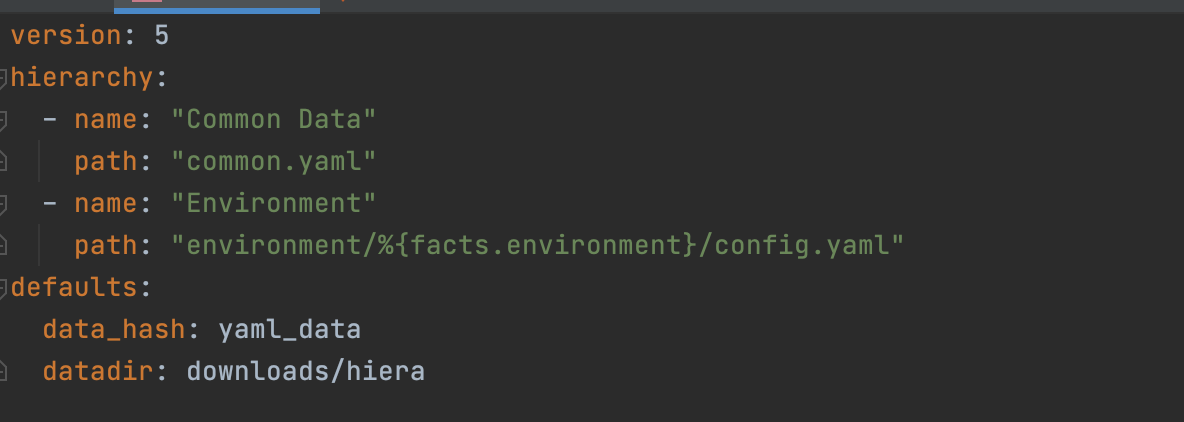
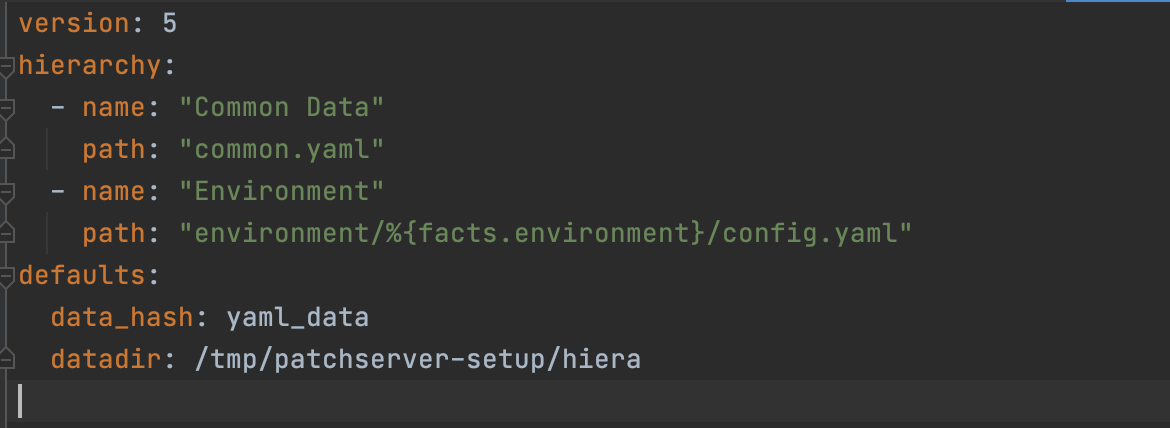
README.md and Startup Time

diff --git a/patchserver-setup.rb b/patchserver-setup.rb
@@ -5,11 +5,13 @@ require 'yaml'
 require 'fileutils'
 require 'ostruct'
 require 'apgsecrets'
-require 'json'
+require 'tty-spinner'
+require 'tempfile'
 
 def parse_show_plans_output(output,opts)
   plans_available = []
   if opts[:jsonOutput]
+    require 'json'
     show_plans = JSON.parse(output)
     show_plans['plans'].each do |plan|
       if plan.first.start_with?("piper")
@@ -118,16 +120,24 @@ plans_installation_order << OpenStruct.new('install_order' => 45, 'name' => 'pip
 
 
 plans_to_execute = []
-show_output = `bolt plan show`
-plans_available = parse_show_plans_output(show_output,opts)
+puts "Running target group with name : #{opts[:target]} "
+secrets = Secrets::Store.new("Patschserversetup-#{opts[:target]}",opts[:target] == 'local' ? 86400 : 7200)
+secrets.prompt_and_save(opts[:user], "Please enter pw for user: #{opts[:user]} on targets: #{opts[:target]} and hit return:    ")
+puts "\nRecieved password, password wasn't validated, login may fail later with the executing of the Plans (closed stream)"
+spinner = TTY::Spinner.new("[:spinner] :title",format: 'classic', hide_cursor: true)
+spinner.update(title: 'Loading available Piper Puppet Plans...')
+spinner.auto_spin
+temp_file = Tempfile.new
+pid = spawn("bolt plan show > #{temp_file.path}")
+spinner.run "Done." do
+  Process.wait pid
+end
+plans_available = parse_show_plans_output(File.read(temp_file.path),opts)
 if !targets.include?(opts[:target])
   puts "Invalid target group name : #{opts[:target]}, please enter one of : #{targets.to_s} "
   puts opts
   exit
 end
-puts "Running target group with name : #{opts[:target]} "
-secrets = Secrets::Store.new("Patschserversetup-#{opts[:target]}",opts[:target] == 'local' ? 86400 : 7200)
-secrets.prompt_and_save(opts[:user], "Please enter pw for user: #{opts[:user]} on targets: #{opts[:target]} and hit return:")
 create_new_temp_dir(opts)
 if !opts[:skipGradleClone]
   git_apg_clone(opts, "apg-gradle-properties.git", "gradlehome")
@@ -180,6 +190,8 @@ end
 
 unless plans_to_execute.empty?
   sorted_plans = plans_installation_order.sort_by {|p| [p.install_order]}
+  puts "The following plans will be executed in the order as listed: "
+  puts sorted_plans
   sorted_plans.each do |plan|
     if plans_to_execute.include? plan.name
       parm = plans_with_user_param.include?(plan.name) ? " user=#{opts[:user]} " : ""

diff --git a/README.md b/README.md
@@ -19,8 +19,6 @@ Piper see the [Github Repo]() .
 6. Bolt Version 3.0.0 installed on the Host machine. For Bolt
    installation see the
    [Puppet Site](https://puppet.com/docs/bolt/latest/bolt_installing.html)
-7. The necessary Puppet modules are installed locally:  `bolt puppetfile
-   install` in the root directory of the project
 8. Tested Host Enviroments: Macos Big Sur, WSL Ubuntu 18.04 Lts, Windows
    Native will probably not work
 
@@ -49,16 +47,20 @@ with:
 
 ## Project Organization
 
-The Installation process supports 3 environment target types:
-development, integration and production. The development is intended for
-installation in a local vm. Integration and production for centralized
-servers.
+The Installation process supports 3 **environment** target types:
+
+- development
+- integration
+- production
+
+development is intended for installation in a local vm.
+Integration and production for centralized servers.
 
 The [Puppet plans](plans) , are always run from the Setup script:
 [patchserver-setup.rb](patchserver-setup.rb) , see below for more
 details.
 
-The Parameters, which drive the Puppet Installation are organized into
+The **Parameters**, which drive the Puppet Installation are organized into
 inventory files, hiera data and command line parameters.
 
 And naturally the Bolt Project itself.
@@ -86,11 +88,12 @@ Bolt merges the respective contexts for a target group.
 
 ### Hiera Data
 
-Hiera Data is retrieved in the plan by specific lookup functions.  
-We generally store security sensitive data in Hiera.
+Hiera Data is retrieved in the plan by specific lookup functions. We
+generally store security sensitive data in Hiera.
 
-The Hiera data is kept in a separate Apg internal Git repository and is
-cloned into a project specific directory in /tmp upon
+The Hiera data is kept in a separate Apg internal Git repository
+git.apgsga.ch:/var/git/repos/patchserver-setup-hiera and is cloned into
+a project specific directory in /tmp/patchserver-setup/hiera upon
 starting the [patchserver-setup.rb](patchserver-setup.rb).
 
 Hiera Access is configured in the file [hiera.yaml](hiera.yaml):
@@ -100,6 +103,8 @@ Hiera Access is configured in the file [hiera.yaml](hiera.yaml):
 The Hiera Data Storage structure is a the moment as follows:
 
 ![Hiera Data](./images/hiera-data.png)
+
+see also git.apgsga.ch:/var/git/repos/patchserver-setup-hiera
 
 ### Bolt / Puppet
 
@@ -141,7 +146,6 @@ against the available plans.
 
 Options --dry: Only prints out what would be executed.
 
-
 ## Running the Setup
 
 Basically the Setup should be able to run unattended, after the Password
@@ -152,8 +156,8 @@ Possible problems:
 Target machine not available, either the ip address or host name in  
 one of the inventory files is wrong or network problems
 
-The Password is wrong, this leads to nasty error messages,  
-since the password is checked initially.
+The Password is wrong, this leads to nasty error messages (closed
+stream),since the password is not checked initially.
 
 A plan has an error.... hmmmmm
 
@@ -168,7 +172,7 @@ Typical usage scenario by example for user <che>
 `./patchserver-setup.rb -u che --target local -aa # Runs all Piper plans for target local`
 
 The setup will need depending between 10 - 20 min..... best go and drink
-a coffee and/or due some exercises ;-)
+a coffee and/or do some exercises ;-)
 
 ## Test Setup Scripts for initializing Tests on a Patchserver Target
 
@@ -244,11 +248,20 @@ The options can be combined
 
 If uncertain about the effects of the script best use the `--dry` option
 
+## Optimizing Startup time of JRuby Scripts
+
+See also https://github.com/jruby/jruby/wiki/Improving-startup-time
+
+Two options are useful:
+
+- Environment Variable : JRUBY_OPTS=--dev
+- Regenerate the JVM's shared class-data archive : java -Xshare:dump
+
 ## Open Points / Todos
 
-- [ ] Artifactory and Maven Profile by convention
+- [ ] Test user/password against Target ,before executing plans
 - [ ] Secrets/ Passwords : Heira Data encrypted
 - [ ] Hiera Files : Read with File gems
-- [ ] Additional Jenkins Users
+- [ ] Additional Jenkins Users (apg dev_ops)
 - [ ] Exclude local target specific plans for prod and test
 
